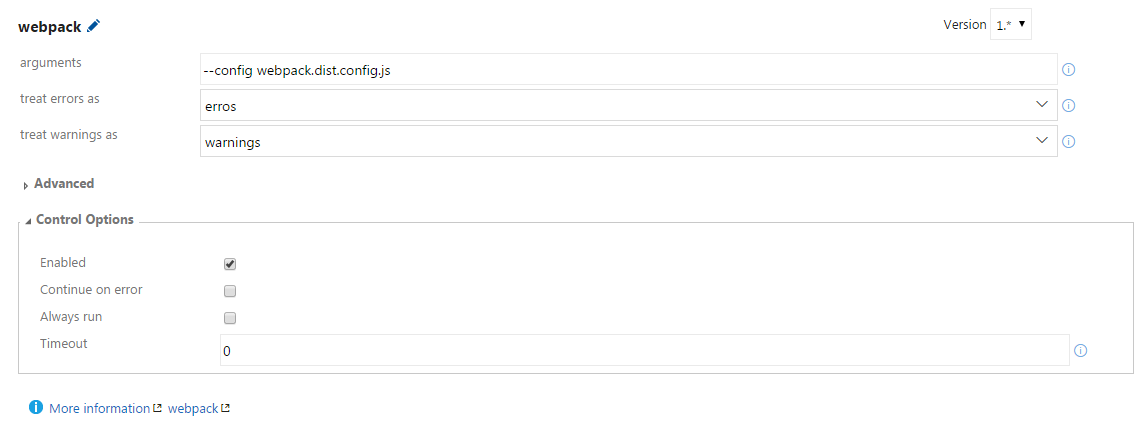
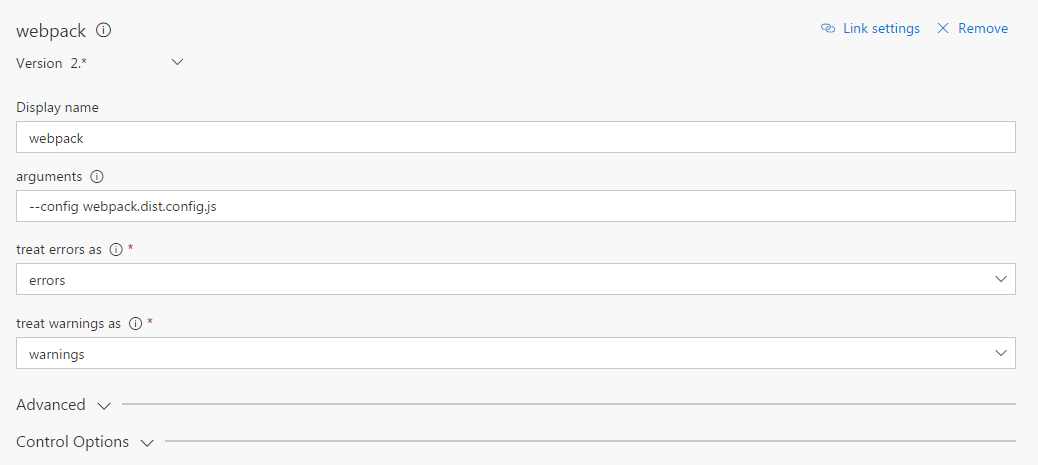
fixed versioning (#21)
* fixed versioning

* removing preview flag

* fixing webpack arguments screenshot

diff --git a/version.ts b/version.ts
@@ -1,1 +1,1 @@
-export default "__GitVersion.SemVer__".replace("__GitVersion.SemVer__", "2.0.1-preview");
+export default "__GitVersion.SemVer__".replace("__GitVersion.SemVer__", "2.0.2");
